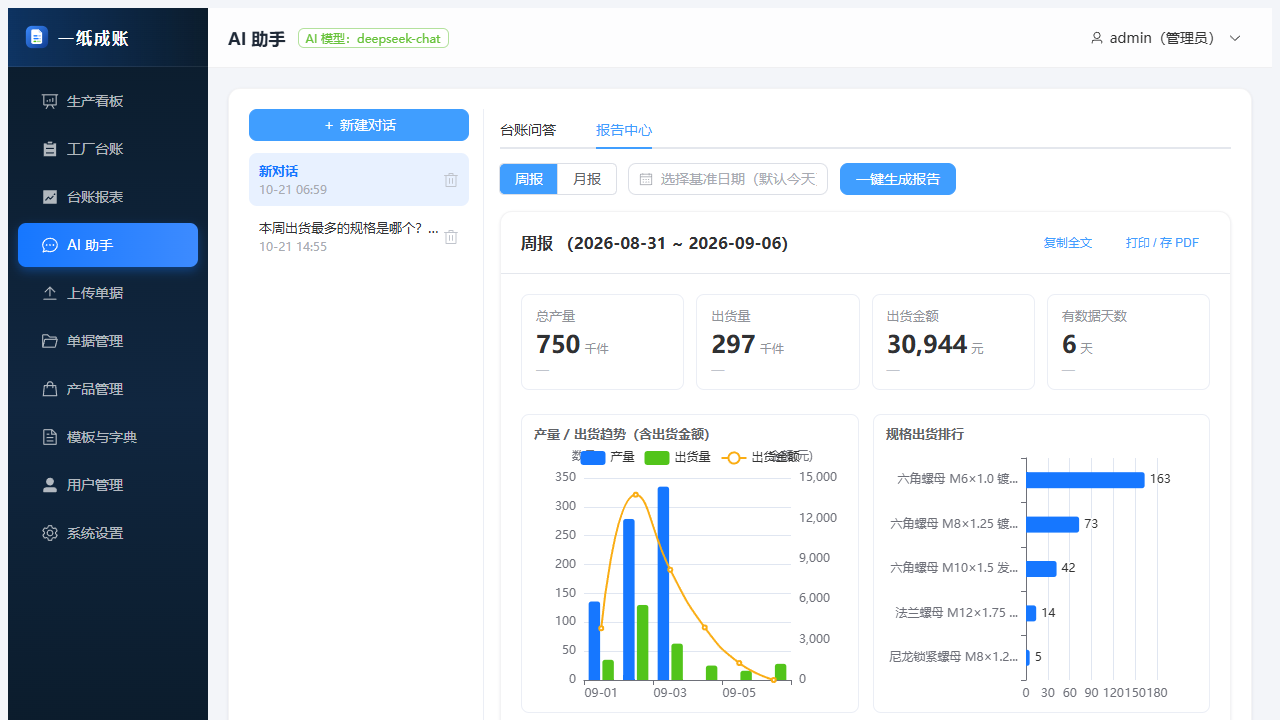
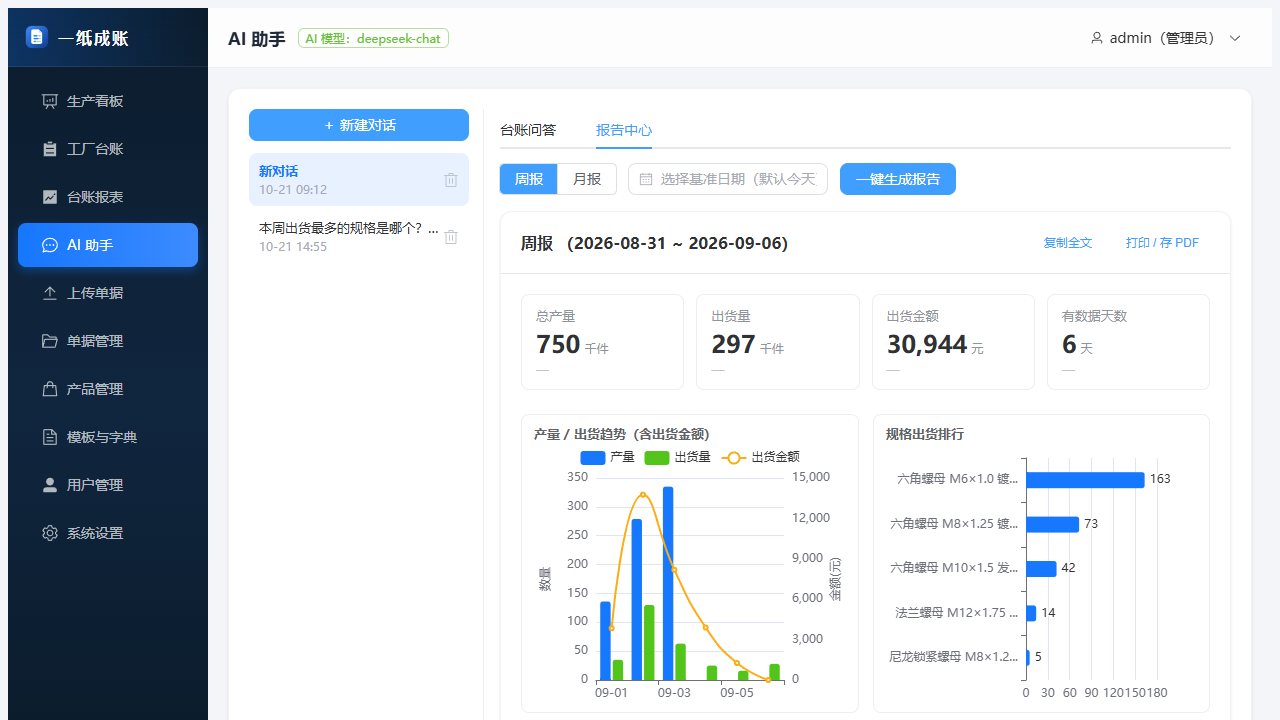
fix: AI 周报趋势图轴名与图例重叠；补 .gitattributes 锁定换行符
趋势图两个 Y 轴的轴名默认画在轴顶端，和 top:0 的图例挤在同一行；改成竖排
（nameLocation: middle）并加宽 grid 左右留白。
.gitattributes 明确 .sh/.py 检出为 LF、.bat 为 CRLF、图片与 Office 文档按
二进制处理，避免以后从 Windows 提交时把 Linux 脚本写成 CRLF 导致 bad interpreter。

diff --git a/frontend/src/views/Assistant.vue b/frontend/src/views/Assistant.vue
@@ -393,11 +393,12 @@ function renderCharts() {
   trendChart.setOption({
     tooltip: { trigger: 'axis' },
     legend: { data: ['产量', '出货量', '出货金额'], top: 0 },
-    grid: { left: 50, right: 55, top: 32, bottom: 26 },
+    grid: { left: 62, right: 62, top: 32, bottom: 26 },
     xAxis: { type: 'category', data: c.trend.dates },
     yAxis: [
-      { type: 'value', name: '数量' },
-      { type: 'value', name: '金额(元)', splitLine: { show: false } },
+      // 轴名放成竖排：放在轴顶端会和图例挤在同一行
+      { type: 'value', name: '数量', nameLocation: 'middle', nameGap: 44 },
+      { type: 'value', name: '金额(元)', nameLocation: 'middle', nameGap: 46, splitLine: { show: false } },
     ],
     series: [
       { name: '产量', type: 'bar', barMaxWidth: 22, itemStyle: { color: '#1677ff', borderRadius: [3, 3, 0, 0] }, data: c.trend.production },
